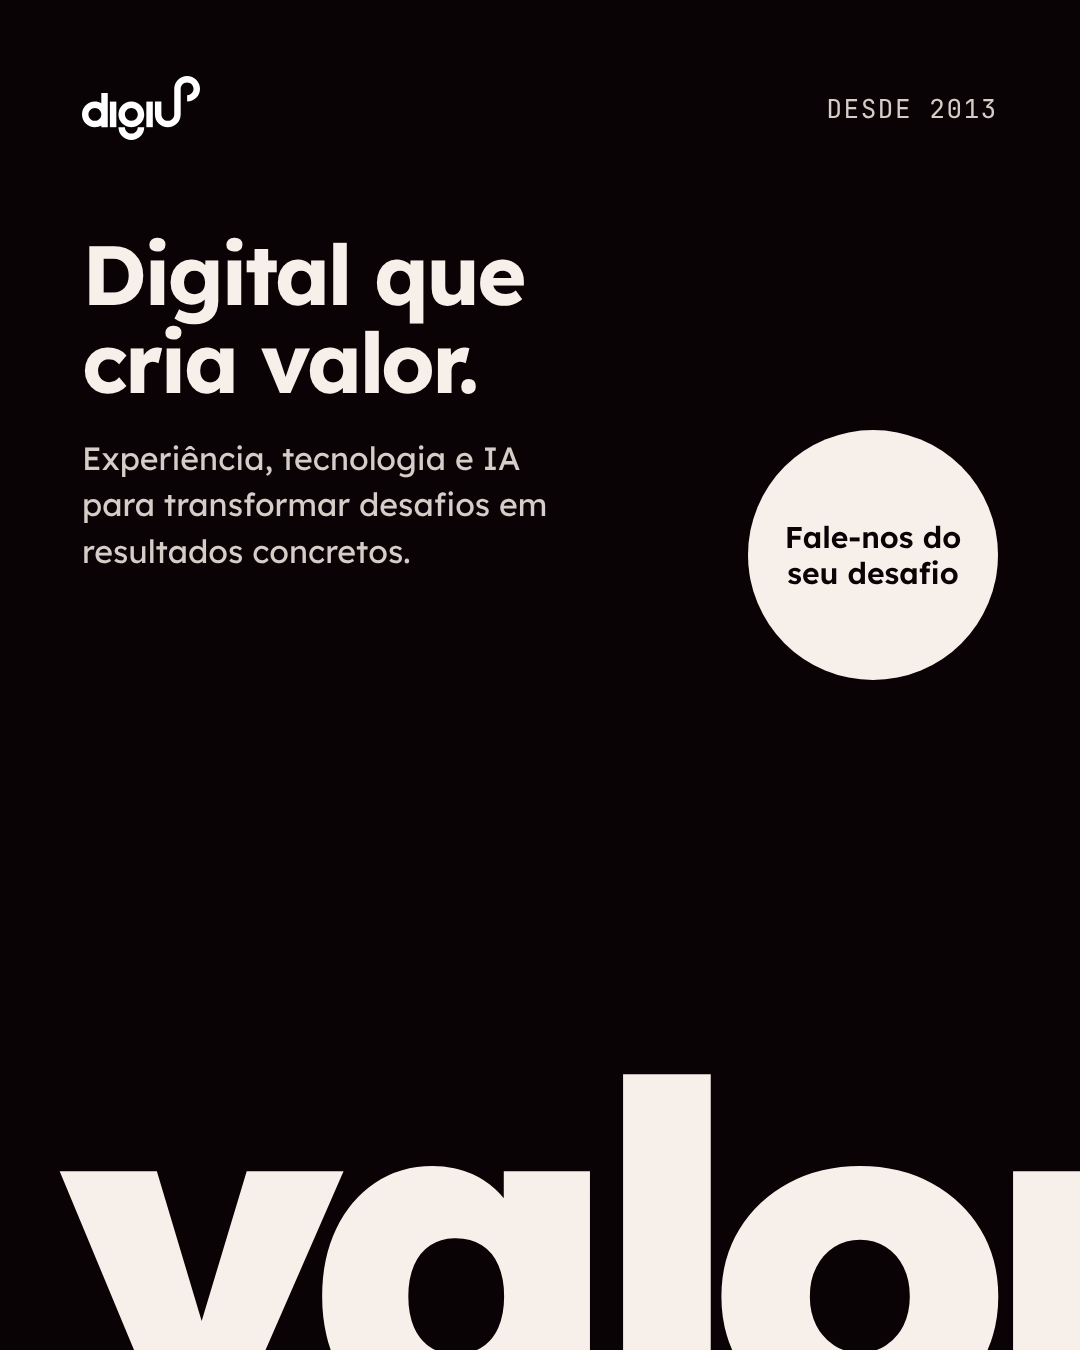
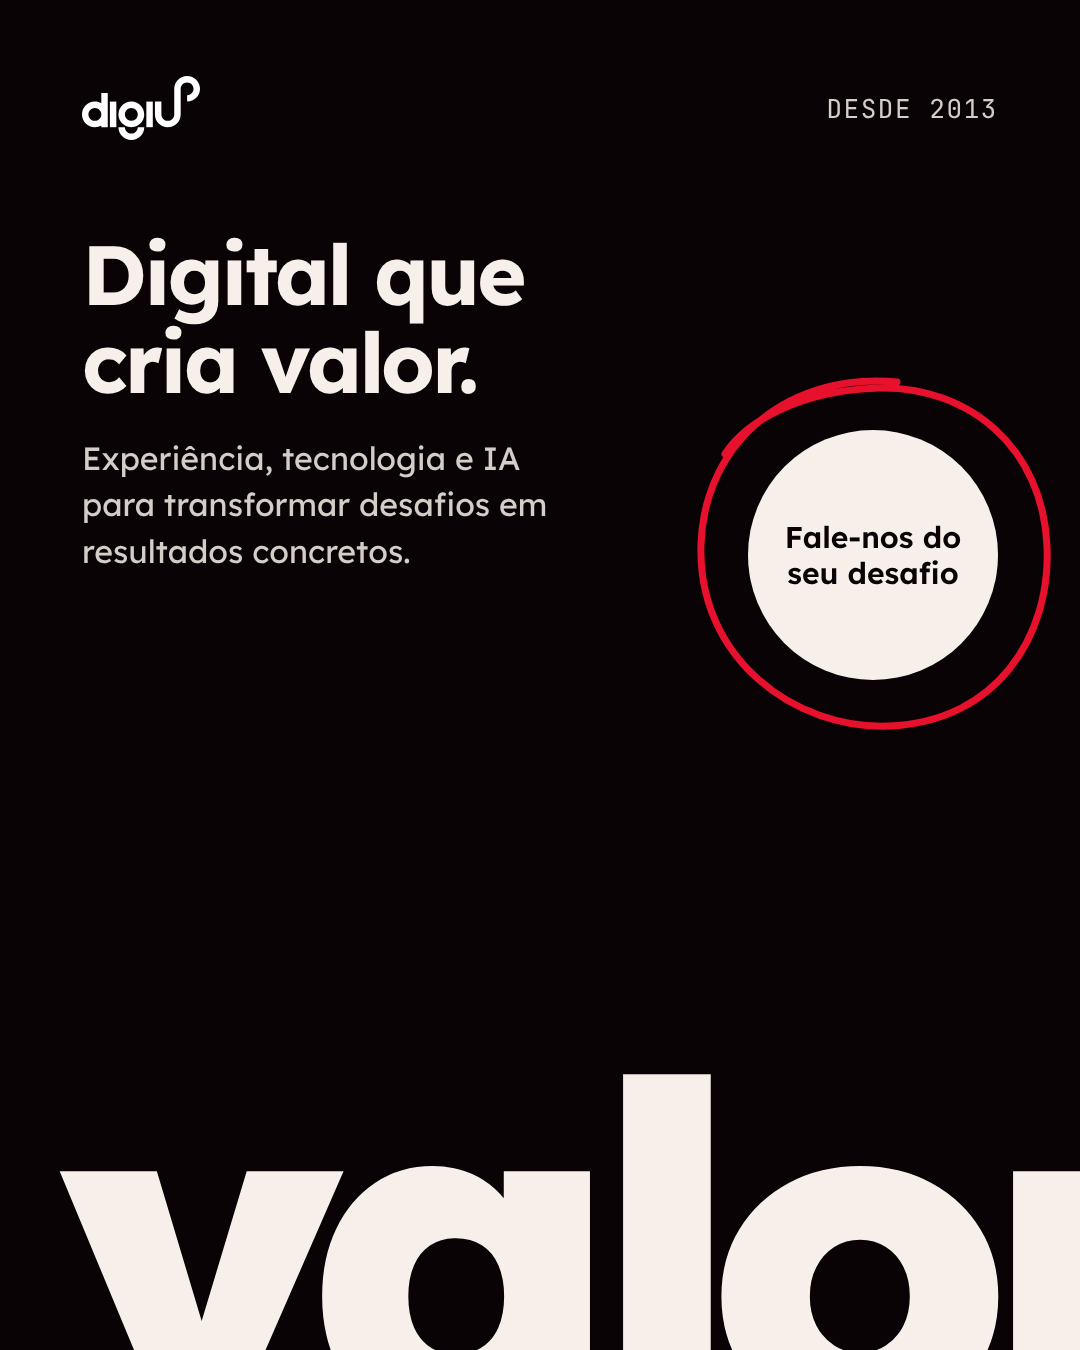
Feed: círculo riscado no CTA, círculo de palavras fechado e «Desde 2013»
No post «Digital que cria valor.», um círculo desenhado à mão à volta
do botão «Fale-nos do seu desafio». No «Pessoas primeiro.», o texto em
círculo passa a dar a volta completa e a etiqueta muda de «Amarante ·
Porto» para «Desde 2013».

Claude-Session: https://claude.ai/code/session_0173GtUhSHhHFQaxLRUGv3dG

diff --git a/feed/carrossel.html b/feed/carrossel.html
@@ -157,18 +157,19 @@ body{background:#17181a;font-family:var(--du-font-sans);display:flex;flex-wrap:w
 <section class="s dark" id="s8">
   <div class="top"><img src="digiup-white.svg" alt="digiUP"><span class="mono up">Desde 2013</span></div>
   <div class="h" style="margin-top:90px;font-size:84px">Digital que<br>cria valor.</div>
-  <p class="body" style="margin-top:30px;max-width:620px">Experiência, tecnologia e IA para transformar desafios em resultados concretos.</p>
+  <p class="body" style="margin-top:30px;max-width:560px">Experiência, tecnologia e IA para transformar desafios em resultados concretos.</p>
   <div class="abs" style="right:82px;top:430px;width:250px;height:250px;border-radius:50%;background:var(--du-cream);color:var(--du-black);display:flex;align-items:center;justify-content:center;text-align:center;font-weight:600;font-size:30px;line-height:1.2;padding:30px">Fale-nos do seu desafio</div>
+  <svg class="abs" aria-hidden="true" style="left:683px;top:368px;overflow:visible" width="380" height="374" viewBox="0 0 380 374"><path d="M214 14 C 110 4, 22 70, 18 176 C 14 290, 112 362, 206 358 C 312 354, 368 270, 364 178 C 360 80, 286 18, 196 20 C 120 22, 64 52, 42 86" fill="none" stroke="#e8112d" stroke-width="7" stroke-linecap="round"/></svg>
   <div aria-hidden="true" class="abs giant" style="left:56px;bottom:-112px;font-size:470px;color:var(--du-cream);letter-spacing:-.07em">valor.</div>
 </section>
 
 <!-- 09 · claro · esfera e texto em círculo -->
 <section class="s light" id="s9">
-  <div class="top"><img src="digiup-black.svg" alt="digiUP"><span class="mono up">Amarante · Porto</span></div>
+  <div class="top"><img src="digiup-black.svg" alt="digiUP"><span class="mono up">Desde 2013</span></div>
   <div class="abs" style="left:240px;top:290px;width:600px;height:600px;border-radius:50%;background:radial-gradient(circle at 46% 44%,#e8112d 0%,#b00e22 34%,rgba(176,14,34,.35) 56%,rgba(250,247,244,0) 72%);filter:blur(6px)"></div>
   <svg class="abs" style="left:150px;top:200px" width="780" height="780" viewBox="0 0 780 780">
     <defs><path id="circ" d="M390,390 m-340,0 a340,340 0 1,1 680,0 a340,340 0 1,1 -680,0"/></defs>
-    <text font-family="JetBrains Mono" font-size="30" letter-spacing="3" fill="#0a0305"><textPath href="#circ">PESSOAS PRIMEIRO · TECNOLOGIA COM PROPÓSITO · DIGITAL QUE CRIA VALOR · DESDE 2013 ·</textPath></text>
+    <text font-family="JetBrains Mono" font-size="30" fill="#0a0305"><textPath href="#circ" textLength="2128" lengthAdjust="spacing">PESSOAS PRIMEIRO · TECNOLOGIA COM PROPÓSITO · DIGITAL QUE CRIA VALOR · DESDE 2013 · </textPath></text>
   </svg>
   <div style="margin-top:auto">
     <div class="h" style="font-size:80px">Pessoas primeiro.</div>
